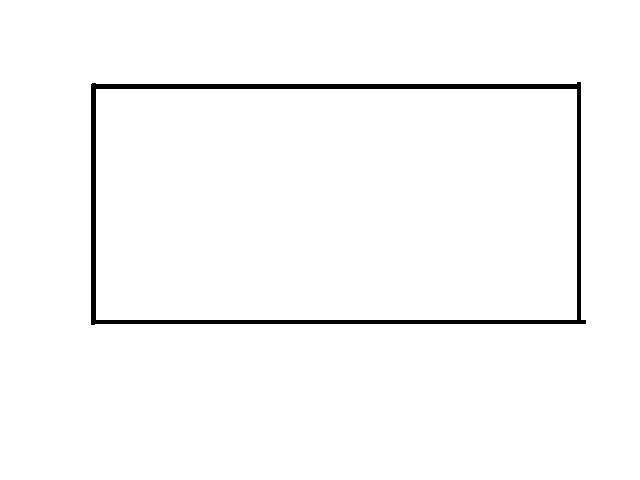
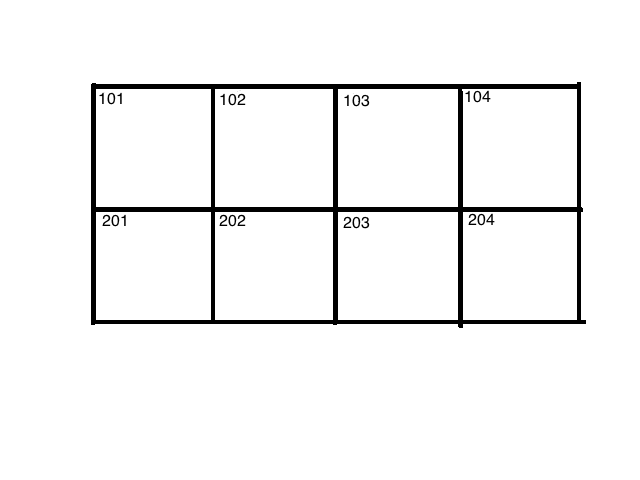
Adding checkout functionality to app for rooms

Changed region(s): [[0.1562, 0.1875, 0.9062, 0.6562], [0.1562, 0.1875, 0.1875, 0.2188]]

diff --git a/src/Keeper.js b/src/Keeper.js
@@ -1,34 +1,153 @@
 import React, { Component } from 'react';
-import HotelRoom from './HotelRoom.png';
 import './App.css';
 
+
 class Keeper extends Component {
+  constructor(props) {
+   super(props);
+   this.state = {
+     room: '',
+     showRoom: true
+   }
+ }
+
+
+hideRoom101() {
+  var x = document.getElementById("HotelRoom-101")
+  if (x.style.display === "none") {
+        x.style.display = "block";
+    } else {
+        x.style.display = "none";
+    }
+}
+hideRoom102() {
+  var x = document.getElementById("HotelRoom-102")
+  if (x.style.display === "none") {
+        x.style.display = "block";
+    } else {
+        x.style.display = "none";
+    }
+}
+hideRoom103() {
+  var x = document.getElementById("HotelRoom-103")
+  if (x.style.display === "none") {
+        x.style.display = "block";
+    } else {
+        x.style.display = "none";
+    }
+}
+hideRoom104() {
+  var x = document.getElementById("HotelRoom-104")
+  if (x.style.display === "none") {
+        x.style.display = "block";
+    } else {
+        x.style.display = "none";
+    }
+}
+hideRoom201() {
+  var x = document.getElementById("HotelRoom-201")
+  if (x.style.display === "none") {
+        x.style.display = "block";
+    } else {
+        x.style.display = "none";
+    }
+}
+hideRoom202() {
+  var x = document.getElementById("HotelRoom-202")
+  if (x.style.display === "none") {
+        x.style.display = "block";
+    } else {
+        x.style.display = "none";
+    }
+}
+
+hideRoom203() {
+  var x = document.getElementById("HotelRoom-203")
+  if (x.style.display === "none") {
+        x.style.display = "block";
+    } else {
+        x.style.display = "none";
+    }
+}
+
+
+hideRoom204() {
+  var x = document.getElementById("HotelRoom-204")
+  if (x.style.display === "none") {
+        x.style.display = "block";
+    } else {
+        x.style.display = "none";
+    }
+}
+
+
+
+
   render() {
     return (
       <div className='HotelRoom'>
-      <h2>Hotel Room</h2>
-      <img src={HotelRoom} alt="HotelRoom" />
+      <h2>Motel Rooms</h2>
+      <button onClick={this.hideRoom101}>Check out</button>
+
+      <button type="button" className="HotelRoom-101" id="HotelRoom-101">101</button>
+        <button onClick={this.hideRoom102}>Check out</button>
+      <button type="button" className="HotelRoom-102" id='HotelRoom-102' >102</button>
+        <button onClick={this.hideRoom103}>Check out</button>
+      <button type="button" className="HotelRoom-103"  id='HotelRoom-103'>103</button>
+        <button onClick={this.hideRoom104}>Check out</button>
+      <button type="button" className="HotelRoom-104" id='HotelRoom-104'>104</button>
+        <button onClick={this.hideRoom201}>Check out</button>
+      <button type="button" className="HotelRoom-201" id='HotelRoom-201'>201</button>
+        <button onClick={this.hideRoom202}>Check out</button>
+      <button type="button" className="HotelRoom-202" id='HotelRoom-202'>202</button>
+        <button onClick={this.hideRoom203}>Check out</button>
+      <button type="button" className="HotelRoom-203" id='HotelRoom-203'>203</button>
+        <button onClick={this.hideRoom204}>Check out</button>
+      <button type="button" className="HotelRoom-204" id='HotelRoom-204'>204</button>
       <div className="Keepers">
+      <input
+        className="room-control"
+        placeholder="Room #"
+        onChange={event => this.setState({room:event.target.value})}/>
       <button
        type="button"
        className="button-1"
-       />
+       onClick={() => this.moveKeeper()}>
+       1
+      </button>
+      <input
+        className="room-control"
+        placeholder="Room #"
+        onChange={event => this.setState({room: event.target.value})}/>
       <button
-      type="button-2"
-      className="btn btn-success"
-       />
+      type="button"
+      className="button-2">
+      2
+      </button>
+      <input
+        className="room-control"
+        placeholder="Room #"
+        onChange={event => this.setState({room: event.target.value})}/>
       <button
-        type="button-3"
-        className="btn btn-success"
-       />
+        type="button"
+        className="button-3">
+        3
+       </button>
+       <input
+         className="room-control"
+         placeholder="Room #"
+         onChange={event => this.setState({room: event.target.value})}/>
        <button
-        type="button-4"
-        className="btn btn-success"
-        />
+        type="button"
+        className="button-4">
+          4
+        </button>
       </div>
     </div>
     )
   }
 }
+
+
 
 export default Keeper;

diff --git a/src/KeeperTimer.js b/src/KeeperTimer.js
@@ -1,0 +1,37 @@
+import React, { Component } from 'react';
+import './App.css';
+
+class KeeperTimer extends Component {
+  constructor(props) {
+   super(props);
+   this.state = {date: new Date()};
+   }
+
+   componentDidMount() {
+
+    }
+
+    componentWillUnmount() {
+
+    }
+ startTime() {
+   this.state.date.toLocaleTimeString();
+}
+
+
+
+ endTime() {
+
+ }
+
+render () {
+  return (
+  <button type='button' className='button-1'
+    onClick={() => this.startTime()}>
+  </button>
+    )
+  }
+
+}
+
+export default KeeperTimer;

diff --git a/src/App.css b/src/App.css
@@ -23,10 +23,20 @@
 }
 
 .button-1, .button-2, .button-3, .button-4 {
-  display: inline;
+  display: inline-block;
   padding: 20px;
+  background-color: green;
+  margin: 20px;
+  font-size: 15px;
+  font-weight: bold;
 }
 @keyframes App-logo-spin {
   from { transform: rotate(0deg); }
   to { transform: rotate(360deg); }
+}
+
+.HotelRoom-101,.HotelRoom-102,.HotelRoom-103,.HotelRoom-104, .HotelRoom-201,.HotelRoom-202,.HotelRoom-203,.HotelRoom-204 {
+  display: inline-block;
+  padding: 50px;
+  background-color: red;
 }

diff --git a/src/App.js b/src/App.js
@@ -1,5 +1,7 @@
 import React, { Component } from 'react';
 import Keeper from './Keeper'
+import KeeperTimer from './KeeperTimer'
+import Queue from './Queue'
 import './App.css';
 
 class App extends Component {
@@ -10,6 +12,8 @@ class App extends Component {
           <h1 className="App-title">Brains Motel Keeper Track</h1>
         </header>
         <Keeper />
+        <Queue />
+        <KeeperTimer />
       </div>
     );
   }

diff --git a/src/App.test.js b/src/App.test.js
@@ -7,7 +7,7 @@ it('renders the header of the page', () => {
   ReactDOM.render(<App />, div);
 });
 
-it('renders the hotel room visual', () => {
+it('renders the keeper component', () => {
   const div = document.createElement('div');
-  ReactDOM.render(< />, div);
+  ReactDOM.render(<Keeper />, div);
 });

diff --git a/src/Queue.js b/src/Queue.js
@@ -1,0 +1,22 @@
+import React, { Component } from 'react';
+import './App.css';
+
+class Queue extends Component {
+  constructor(props) {
+   super(props);
+   this.state = {
+      queue: []
+   }
+ }
+
+
+
+render () {
+  return (
+    <div>
+    <p>101</p>
+    </div>
+  )
+}
+}
+export default Queue;
